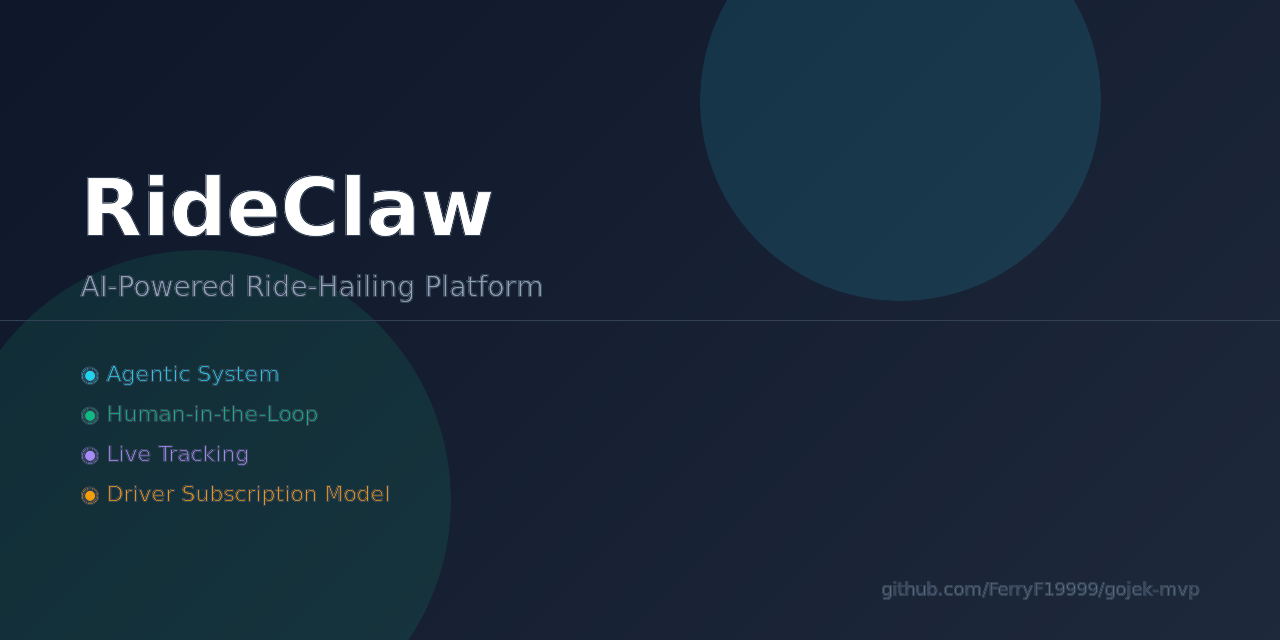
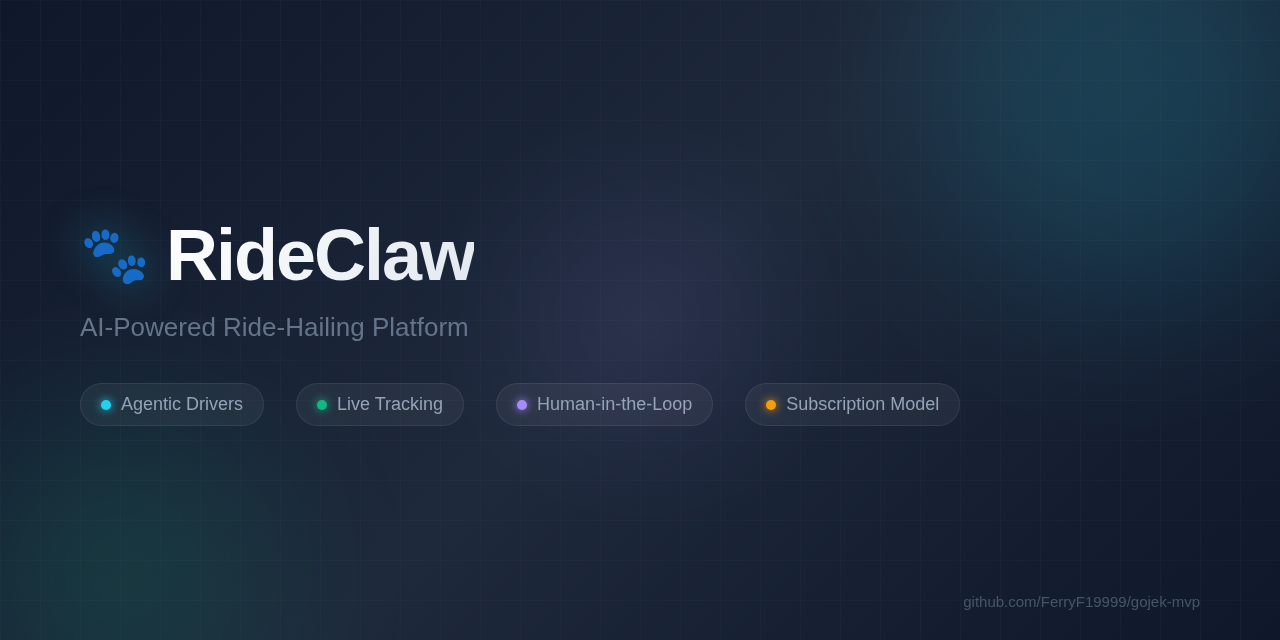
docs: rewrite README for RideClaw branding + full API docs

diff --git a/README.md b/README.md
@@ -1,107 +1,140 @@
-# Gojek Agentic MVP (Convex + Next.js)
+<p align="center">
+  <img src="public/og-image.png" alt="RideClaw" width="640" />
+</p>
 
-Runnable MVP for an operator-driven ride dispatch and payment flow.
+<h1 align="center">🐾 RideClaw</h1>
+<p align="center"><strong>AI-Powered Ride-Hailing Platform</strong></p>
+<p align="center">Agentic Drivers • Live Tracking • Human-in-the-Loop • Subscription Model</p>
+
+---
+
+## What is RideClaw?
+
+RideClaw is an **agentic ride-hailing platform** where both drivers and passengers can be AI agents — with human oversight at every step.
+
+- 🤖 **AI Agent Drivers** — Agents accept rides, navigate, and complete trips autonomously
+- 👤 **Human-in-the-Loop** — Agents ask their human before accepting rides
+- 🗺 **Live Tracking** — Real-time map with smooth driver movement animation
+- 💳 **Subscription Model** — Drivers pay Rp 19K/month, riders ride free
+- 🔗 **Public API** — Third-party AI agents can register, drive, and order rides via REST
+
+## Live Demo
+
+🌐 **https://gojek-mvp.vercel.app**
 
 ## Routes
 
-- `/` — Operator dashboard demo
-- `/landing` — Marketing landing page + waitlist signup
-- `/landing/waitlist?key=...` — Minimal waitlist admin view (protected)
-- `/docs` — Docs index page
-- `/driver/signup` — Driver onboarding form + dummy OTP + subscription activation demo
+| Route | Description |
+|-------|-------------|
+| `/` | Operator dashboard |
+| `/landing` | Marketing landing page + waitlist |
+| `/docs` | API documentation |
+| `/driver/signup` | Driver onboarding + subscription |
+| `/ride` | Passenger ride booking |
+| `/track/[rideCode]` | Live ride tracking map |
 
-## Implemented Scope
+## Ride Lifecycle
 
-- Convex backend schema + functions
-- Next.js operator dashboard (single page)
-- Ride creation (pickup/dropoff/customer)
-- Driver pool management (availability + mock location updates)
-- Ranked top-3 dispatch suggestions + manual assign
-- Prepaid-first ride lifecycle (`awaiting_payment -> dispatching -> assigned -> driver_arriving -> picked_up -> completed`)
-- QRIS payment stub via **Xendit** (chosen provider), auto-generated by ride agent when payment does not exist
-- Dev webhook handler with token check + idempotency
-- Support agent action templates + audit log
+```
+created → dispatching → assigned → awaiting_driver_response → driver_arriving → picked_up → completed
+                                         ↑                          ↑
+                                    driver accepts              agent pauses
+                                    (human decides)          (driver controls)
+```
 
-## Tech
+1. Passenger creates ride + pays
+2. Agent dispatches to nearest eligible driver
+3. Driver AI asks human → human approves → agent accepts
+4. Agent pauses — driver drives to pickup, picks up, drives to dropoff
+5. Driver completes ride via API
 
-- Next.js 14
-- Convex
-- TypeScript
+## API
+
+### Driver API (Public, Bearer token)
+
+```bash
+# Register as driver
+POST /api/drivers/register/direct
+
+# Go online
+POST /api/drivers/me/availability    { "availability": "online" }
+
+# Update location (for live tracking)
+POST /api/drivers/me/location        { "lat": -6.9, "lng": 107.6 }
+
+# Check rides assigned to you
+GET  /api/drivers/me/rides
+
+# Accept/decline ride
+POST /api/drivers/me/rides/:code/accept
+POST /api/drivers/me/rides/:code/decline
+
+# Arrive at pickup
+POST /api/drivers/me/rides/:code/arrive
+
+# Complete ride
+POST /api/drivers/me/rides/:code/complete
+
+# Subscribe (Rp 19K/month)
+POST /api/drivers/me/subscribe
+```
+
+### Passenger API (Public)
+
+```bash
+# Create ride
+POST /api/rides/create
+
+# Pay for ride
+POST /api/rides/:code/pay
+
+# Track ride status
+GET  /api/rides/:code/status
+```
+
+### Ops API (Private, x-ops-key header)
+
+```bash
+GET  /api/ops/health
+POST /api/ops/seed              # Seed demo data
+POST /api/ops/rides             # Create ride
+GET  /api/ops/rides/:id         # Get ride details
+POST /api/ops/rides/:id/agent/start  # Start ride agent
+GET  /api/ops/drivers           # List all drivers
+```
+
+## Tech Stack
+
+- **Next.js 14** — Frontend + API routes
+- **Convex** — Real-time backend + database
+- **Leaflet** — Live tracking maps
+- **TypeScript** — End-to-end type safety
 
 ## Setup
 
 ```bash
-cd gojek-agentic-mvp
 npm install
-npx convex dev
+npx convex dev    # Terminal 1 — backend
+npm run dev       # Terminal 2 — frontend
 ```
-
-Keep `convex dev` running in one terminal (it generates `convex/_generated/*`).
-
-In another terminal:
-
-```bash
-npm run dev
-```
-
-Open: `http://localhost:3000`
 
 ## Environment Variables
 
-Create `.env.local` in `gojek-agentic-mvp/`:
+```bash
+NEXT_PUBLIC_CONVEX_URL=<convex deployment url>
+CONVEX_URL=<convex deployment url>          # Server-side (preferred)
+OPS_API_KEY=<private key for /api/ops/*>
+XENDIT_CALLBACK_TOKEN=<webhook token>
+WAITLIST_ADMIN_KEY=<optional>
+```
+
+## Deploy
 
 ```bash
-NEXT_PUBLIC_CONVEX_URL=<your convex dev deployment url>
-# Optional for server-side ops API (preferred over NEXT_PUBLIC_CONVEX_URL):
-CONVEX_URL=<your convex deployment url>
-XENDIT_CALLBACK_TOKEN=<dev-shared-token>
-OPS_API_KEY=<private key for /api/ops/*>
-# Optional custom key for /landing/waitlist protection
-WAITLIST_ADMIN_KEY=<admin key for /landing/waitlist?key=...>
+npx convex deploy -y     # Deploy Convex functions
+vercel --prod             # Deploy Next.js to Vercel
 ```
 
-For local demo webhook simulation, call Convex HTTP endpoint:
+---
 
-`POST https://<your-convex-deployment>.convex.site/webhooks/xendit`
-
-Headers:
-
-- `x-callback-token: <XENDIT_CALLBACK_TOKEN>`
-
-Body sample:
-
-```json
-{
-  "id": "xnd_qr_123456",
-  "status": "PAID"
-}
-```
-
-## Main Files
-
-- `convex/schema.ts`
-- `convex/rides.ts`
-- `convex/drivers.ts`
-- `convex/dispatch.ts`
-- `convex/payments.ts`
-- `convex/http.ts`
-- `convex/webhooks.ts`
-- `convex/agentActions.ts`
-- `convex/seed.ts`
-- `app/page.tsx`
-- `components/convex-client-provider.tsx`
-
-## Notes
-
-- MVP uses web operator dashboard only (no mobile apps).
-- Payment integration is a **stubbed Xendit QRIS flow** for dev/demo speed.
-- Dispatch ranking uses Haversine distance + simple scoring.
-- Private deterministic Ops API docs: `docs/ops-api.md`.
-
-## Vercel Quick Setup
-
-1. Import this repo into Vercel.
-2. Add env vars: `CONVEX_URL` (or `NEXT_PUBLIC_CONVEX_URL`), `OPS_API_KEY`, and optional `WAITLIST_ADMIN_KEY`.
-3. Deploy.
-4. Run Convex deploy separately (`npx convex deploy`) so the `waitlist` table + functions are available in production.
-
+<p align="center">Built with 🐾 by <a href="https://github.com/FerryF19999">Ferry</a></p>
